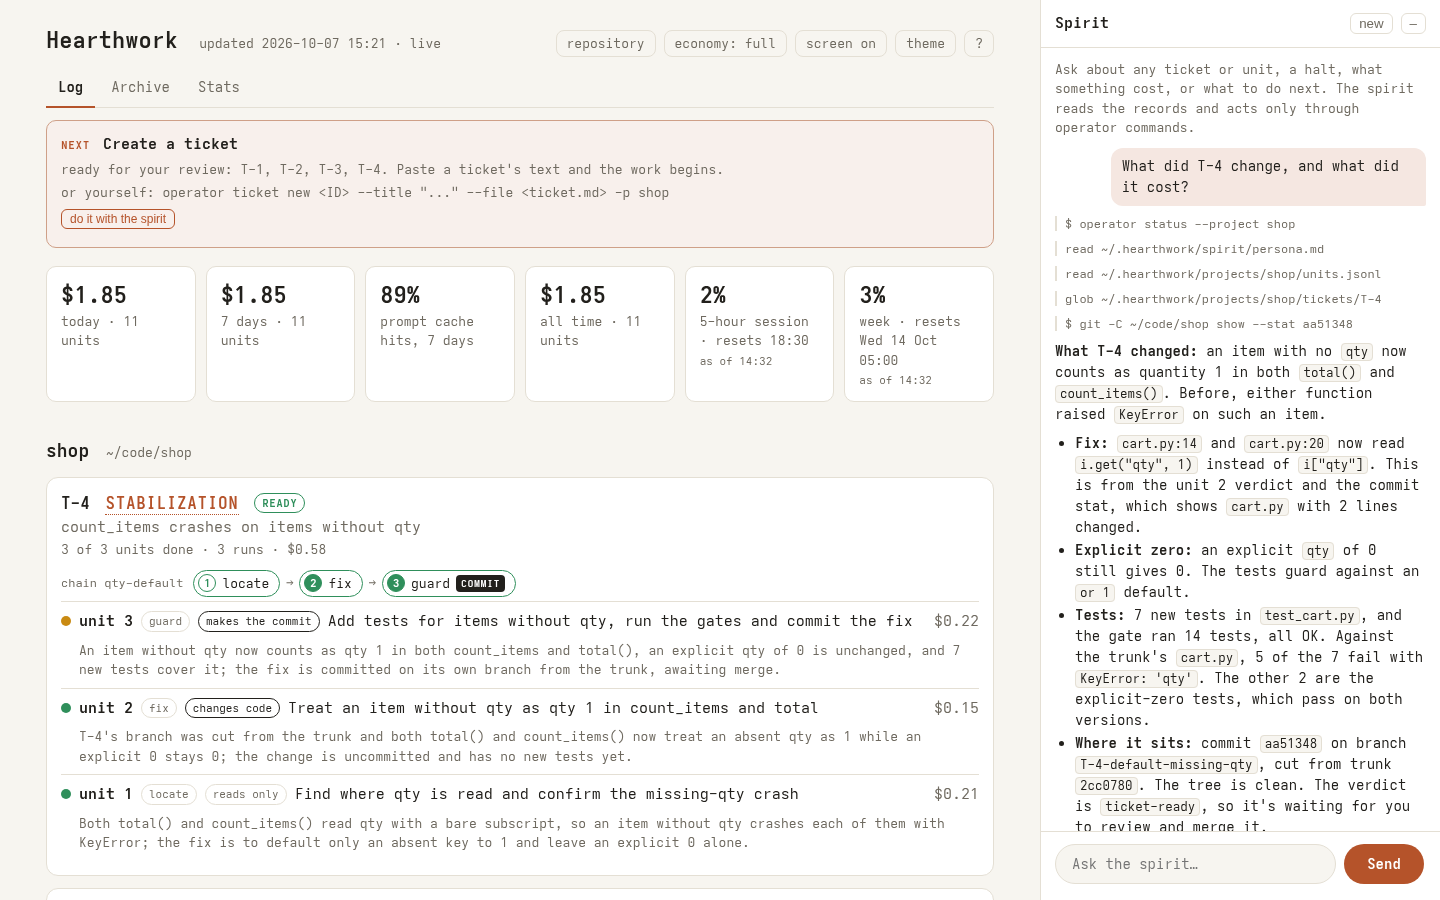
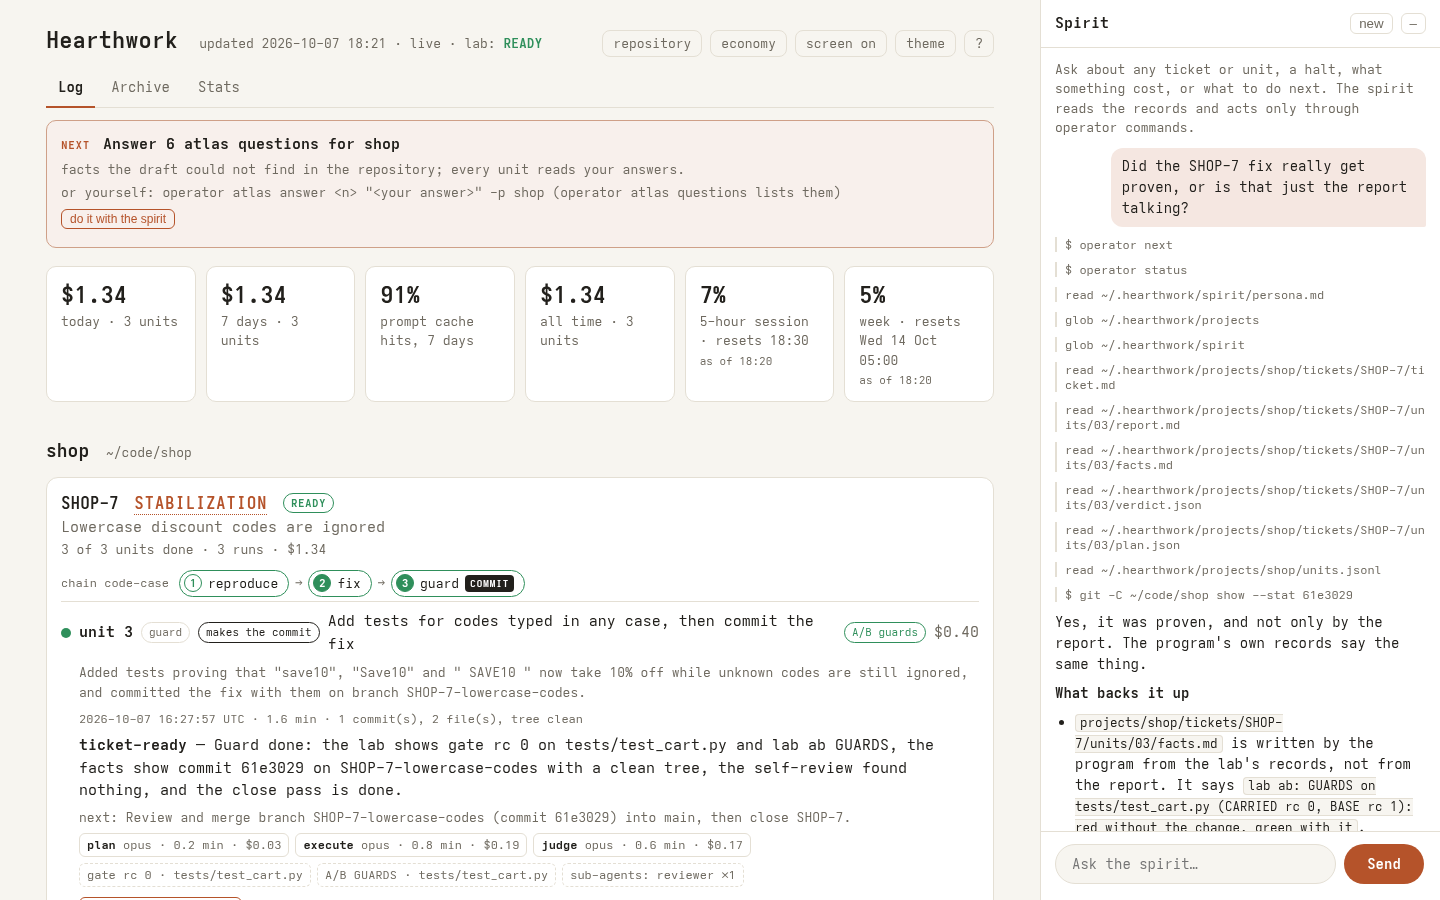
0.3.5: docs for the lab's server and MCP mode, a development section, a new example atlas, a current screenshot

diff --git a/src/hearthwork/__init__.py b/src/hearthwork/__init__.py
@@ -1,3 +1,3 @@
 """hearthwork — a plan -> execute -> judge loop for Claude Code."""
 
-__version__ = "0.3.4"
+__version__ = "0.3.5"

diff --git a/examples/atlas-hearthwork.md b/examples/atlas-hearthwork.md
@@ -1,59 +1,72 @@
-<!-- An example: the atlas `operator atlas` drafted of this very repository, in one read-only
-     Sonnet session costing $0.12, shown as drafted and not edited. A real one is then reviewed,
-     its questions answered, and kept current by the operator. -->
+<!-- An example: the atlas `operator atlas` drafted of this very repository (0.3.4), in one read-only
+     Sonnet session costing $0.10, shown as drafted and not edited. A real one is then reviewed, its
+     questions answered, its "The lab" lines taken with `operator lab config --from-atlas`, and kept
+     current by the operator. -->
 
 # Atlas
 
 ## What this is
-hearthwork is a plan → execute → judge loop for Claude Code. An "operator" session plans and judges, a fenced "executor" session does the work in a git checkout, and a "spirit" chat session sits beside them. It is pure-stdlib Python (3.11+, no dependencies) and ships a CLI named `operator`, a stdio MCP mode, and a local web UI that shows the work log. [README.md] [pyproject.toml:`requires-python`, `dependencies = []`, `[project.scripts]`]
+hearthwork is a plan → execute → judge loop for Claude Code. An "operator" plans units of work, a fenced "executor" does them in a checkout, and the operator judges the report against git facts. It also has a work-log web page, a chat "spirit", an MCP mode and a "lab" that runs tests and A/B proofs [README.md]. It is pure Python ≥3.10 with no runtime dependencies except `tomli` on <3.11, and its tests use `unittest` [pyproject.toml:11,20] [README.md].
 
 ## How to run things
-- Install: `pipx install git+https://github.com/alexandr352/hearthwork` or `pip install --user git+https://github.com/alexandr352/hearthwork`, then `operator doctor` [README.md]. A local editable install is not documented: `unknown`. A `.venv/` exists but is gitignored [ls -a, .gitignore].
-- Build: no build step. setuptools backend; the doctrine `.md` files are packaged as package-data [pyproject.toml].
-- Run one test file: `python -m unittest tests/test_fence.py` is `unknown`; no test command appears in any file I read. The tests are `unittest.TestCase` classes with `unittest.main()` at the bottom [tests/test_contract.py:2,28,80]. `python tests/test_contract.py` should therefore work, but I did not run it. Some tests insert `src` into `sys.path` themselves [tests/test_loop.py:12], and `test_fence.py` runs `src/hearthwork/fence.py` as a subprocess [tests/test_fence.py:9,15].
-- Run tests matching a name: `unknown`. With unittest the form would be `python tests/test_fence.py ExecutorFence.test_quoted_paths_do_not_hide`, but nothing in the repository states it. No pytest config exists [pyproject.toml].
-- Lint / format / typecheck: none configured. pyproject has no `[tool.*]` section besides setuptools, and there is no CI directory [pyproject.toml; ls -a, `.github` absent].
-- Must be running first: nothing for the tests. They use a throwaway `HEARTHWORK_HOME`, a temp git repo and `tests/fake_claude.py` in place of the real `claude` CLI [tests/test_loop.py:15-30, tests/fake_claude.py:1]. Real use needs git and a logged-in `claude` CLI [README.md "Install"].
+- Install: `python3 -m venv .venv && .venv/bin/pip install -e .` [README.md "Development"]
+- Build: unknown. It is a setuptools package with no build step for tests [pyproject.toml:1-3]. Doctrine `.md` files are shipped as package data [pyproject.toml:31-32].
+- Run one test file: `.venv/bin/python -m unittest tests/test_lab.py` [README.md]
+- Run tests matching a name: `.venv/bin/python -m unittest -k <pattern> tests/test_fence.py`. `-k` is listed in `python3 -m unittest --help`; the README does not show it.
+- Lint / format / typecheck: unknown. No linter, formatter or type-checker config exists [ls -a]. Some files carry `# noqa: E402` [tests/test_lab.py:16], so flake8 or ruff may be used informally. Ask the person.
+- Anything that must be running first: nothing. The tests use a stand-in for the Claude CLI, `tests/fake_claude.py`, and spend nothing [README.md]. The real tool needs `git` and a logged-in `claude` CLI [README.md "Install"]. The whole suite takes about a minute [README.md].
 
 ## Where things are
-- `src/hearthwork/`: the package [git ls-files]
-- `src/hearthwork/doctrine/`: markdown prompts per role, shipped as package-data: `executor/` (EXECUTOR.md, ATLAS-BUILD.md), `operator/` (CLAUDE.md, seeds, skill-* files), `spirit/` [git ls-files]
-- `tests/`: unittest tests and `fake_claude.py`, a stand-in for the Claude CLI [git ls-files]
-- Runtime data is not in the repo. It lives in `~/.hearthwork/` or `$HEARTHWORK_HOME` and holds `config.toml`, `projects/<name>/…` and the spirit's files [README.md "The home"; src/hearthwork/home.py:77].
+- `src/hearthwork/`: the package. The entry point is `operator = hearthwork.cli:main` [pyproject.toml:22-23] [ls src/].
+- `docs/`: commands.md, how-it-works.md, safety.md, mcp.md and images [git ls-files].
+- `examples/atlas-hearthwork.md`: an atlas previously drafted of this repo [README.md].
+- `tests/`: one `test_<module>.py` per module, plus `fake_claude.py` [git ls-files].
+- `CHANGELOG.md`: per-version notes. Versions marked "upgrade" change the doctrine [CHANGELOG.md:5-6].
 
-Where changes land:
-- `cli.py` (430 lines): argparse subcommands such as init, project, ticket, run, rule, status, doctor, atlas, ui, chat, mcp [src/hearthwork/cli.py].
-- `loop.py` (420 lines): the plan/execute/judge loop, retries and recovery. It builds the fence policy passed in `HEARTHWORK_FENCE_POLICY` [src/hearthwork/loop.py:86].
-- `fence.py` (404 lines): the PreToolUse hook, default-deny, with modes executor, read-only, operator and spirit. It is run as a standalone script [README.md "The fence"; tests/test_fence.py].
-- `contract.py`: checks that plans and verdicts have the required shape [tests/test_contract.py].
-- `home.py`, `records.py`: home and project layout, and the Ticket and unit records. `gitinfo.py` reads the git facts the judge sees.
-- `claude.py`: invokes the `claude` CLI. `mcp.py`: MCP stdio mode. `server.py` and `worklog.py`: the web UI and `worklog.html`. `atlas.py`: atlas drafting. `awake.py`: the sleep guard.
-- `doctrine/*.md`: edit these to change what each session is told.
+Where most changes land:
+- `src/hearthwork/cli.py` (802 lines): the argparse command surface [wc -l].
+- `src/hearthwork/loop.py` (600 lines): the plan/execute/judge loop [wc -l].
+- `src/hearthwork/lab.py` (1025 lines): `gate`, `ab`, `up`/`down`, `config`, restore [wc -l] [CHANGELOG.md].
+- `src/hearthwork/fence.py` (491 lines): the executor's permission hook, run as a script with the policy passed via `HEARTHWORK_FENCE_POLICY` [tests/test_fence.py:9-17].
+- `src/hearthwork/server.py` and `worklog.py`: the live page and work log [ls src/].
+- `src/hearthwork/doctrine/`: the markdown prompts that get installed: `executor/`, `operator/`, `spirit/`, `agents/`, `skills/` [git ls-files].
+- `contract.py`, `atlas.py`, `home.py`, `tickets.py`, `records.py`, `gitinfo.py`, `mcp.py`: the answer contracts, atlas handling, home directory and projects, tickets, records, git facts and MCP mode [ls src/].
 
 ## Conventions
-- Module docstring at the top of each file, short comments, no third-party dependencies [src/hearthwork/cli.py:1; pyproject.toml].
-- Tests are `unittest` classes in `tests/test_<module>.py`. Tests that need the loop build a temp home, repo and ticket and set the `HEARTHWORK_HOME`, `HEARTHWORK_NO_AWAKE` and `FAKE_STATE` env vars [tests/test_loop.py:15-30].
-- CLI errors go through `fail(msg)`, which prints `operator: <msg>` to stderr and returns exit code 2 [src/hearthwork/cli.py:19-21].
-- Files in the home are written atomically with `home.write_atomic` [src/hearthwork/cli.py:90].
-- Ticket IDs match `home.TICKET_ID`: letters, digits, `.`, `_` or `-` [src/hearthwork/cli.py:75-76].
-- Commits carry the person's own git identity, with no co-author trailer unless `co_author = true` is set in `project.toml` [git log f2a06c0]. Commit subjects are plain descriptive sentences with no prefix [git log].
-- Executor work goes on a ticket branch that the executor never pushes. The atlas-branch form is `unknown` (see questions). The only example seen is `T-1-work` in a fence test [tests/test_fence.py:25].
+- Tests use stdlib `unittest` classes. Shared fixtures are imported across test files, e.g. `from test_loop import Fixture` [tests/test_lab.py:16]. Test files insert `src` into `sys.path` [tests/test_lab.py:13-14].
+- Tests isolate state with a temp dir and `HEARTHWORK_HOME`, and set `HEARTHWORK_NO_AWAKE=1` [tests/test_lab.py:32-33]. They build throwaway git repos with `git init -b main` [tests/test_lab.py:36].
+- Tests drive the CLI as a subprocess: `python -m hearthwork lab -p shop ...` [tests/test_lab.py:56].
+- The code style is plain stdlib Python with module-level `from . import ...` [src/hearthwork/cli.py:11-12]. Formatting config is unknown.
+- Commits are plain subjects that start with the version, e.g. "0.3.4: lab up finds the server's address itself..." [git log]. Docs commits start with "Docs:" [git log]. Every release gets a new version number in `pyproject.toml`, and a `CHANGELOG.md` entry [CHANGELOG.md:23-24].
+- The tool's own ticket branches look like `T-1-work` [tests/test_fence.py:25]. Whether this repo's own work uses ticket branches is unknown. The trunk is `main` [git status].
+- Nothing is pushed by the tool; the person reviews and pushes [README.md].
+
+## The lab
+- lab test: `.venv/bin/python -m unittest {files}` [README.md]
+- lab lint: unknown
+- lab build: unknown
+- lab up: unknown
+- lab health: unknown
+- lab scratch: `tests/_scratch` [tests/ holds the tests, and the README runs them by path]
+- lab ab: worktree
+
+Writing a throwaway probe: use `unittest.TestCase`. For code that needs a project, copy the `LabFixture.setUp` setup from `tests/test_lab.py:28-46`. It makes a temp `HEARTHWORK_HOME`, a temp git repo, `home.init_home()` and `home.add_project(...)`. For fence behaviour, copy the `ask()` helper from `tests/test_fence.py:13-17`. Note that a scratch file under `tests/_scratch/` needs the same `sys.path.insert(0, ".../src")` as `tests/test_lab.py:13-14`. Run it by path with `-m unittest`, since the README shows only path-based runs. `unittest discover -s tests` would not enter a folder without `__init__.py`, so name the file explicitly.
 
 ## Traps
-- `fence.py` is a security-relevant, default-deny guard that tests execute as a subprocess. With no `HEARTHWORK_FENCE_POLICY` it denies everything [tests/test_fence.py:150 `NoPolicyDenies`; src/hearthwork/fence.py:361]. Its own README says it is a guard rail, not a sandbox [README.md].
-- `test_fence.py` uses the real `Path.home()` and asserts denial of paths like `~/.ssh` [tests/test_fence.py:10,36-39]. It reads paths but does not modify them.
-- Setting `HEARTHWORK_HOME` is what keeps tests from touching `~/.hearthwork`. New tests must set it [tests/test_loop.py:19].
-- The `doctrine/` markdown is prompt text that code reads at runtime. `operator upgrade` copies it into each project's operator directory (`home.refresh_doctrine`), so edits here don't reach existing projects until then [src/hearthwork/cli.py:64-68].
-- `HEARTHWORK_NO_AWAKE` disables the sleep guard (`caffeinate` or `systemd-inhibit`) [src/hearthwork/awake.py:26].
-- `__pycache__` holds `cpython-314` bytecode, so the local Python is 3.14. It is gitignored [ls; .gitignore].
-- The README says the fence is also what keeps executors from pushing. The git repo has a single branch, `main`, and no CI [git branch -a].
+- `HEARTHWORK_HOME` and `HEARTHWORK_NO_AWAKE` must be set in any test that touches the home directory. Without them a test could touch the real `~/.hearthwork` or keep the machine awake [tests/test_lab.py:32-33] [src/hearthwork/awake.py]. The default home location is unknown.
+- `fence.py` is invoked as a standalone script by Claude Code hooks, so it needs to work without package imports [tests/test_fence.py:15]. Check that before adding imports to it.
+- The doctrine `.md` files are package data that the installed tool reads. Edits there change the behaviour of every later session, and `operator upgrade` is needed after changes [pyproject.toml:31-32] [CHANGELOG.md:5-6].
+- `HEARTHWORK_AB_OUT` is an environment variable used by the A/B path [grep src tests]. Its role is unknown, so read `lab.py` before touching the A/B.
+- `git stash`, `git restore` and `git checkout -- <file>` are refused by the fence for executors. Baselines come from `operator lab ab` [tests/test_fence.py:59] [CHANGELOG.md].
+- The full suite takes about a minute [README.md]. Use per-file runs.
+- No CI workflow exists in the repo [ls -a: no .github].
 
 ## Questions for the person
-1. What is the exact command to run one test file and one test by name (unittest or pytest)? The repository states neither.
-2. How should ticket branches be named (for example `T-12-short-title`), and is `main` the trunk?
-3. Do you want a linter, formatter or type checker used (ruff, mypy)? None is configured, so should a session add none?
-4. Is an editable install (`pip install -e .` in `.venv`) the expected dev setup?
-5. Which areas are off limits or need extra care, such as `fence.py` and the doctrine prompts?
-6. Is any test slow or flaky? `test_loop.py` and `test_mcp.py` drive subprocesses and may be.
-7. Should commits ever carry a co-author trailer, or is the default of none right for this repository?
-8. Does `operator upgrade` need to be run after changing a doctrine file, or does something else handle that?
+1. Is there a linter, formatter or type-checker you want run (ruff, flake8, mypy)? None is configured.
+2. Should work on this repo use ticket branches such as `T-<n>-...`, or short-lived branches off `main`? Which form do you prefer?
+3. Do you want a `CHANGELOG.md` entry and a version bump in `pyproject.toml` on every change, or only for releases?
+4. Which test files are slow or flaky? `test_lab.py`, `test_running.py` and `test_loop.py` look heaviest, but I did not run them.
+5. Are any areas off limits, such as `fence.py` or the `doctrine/` prompts?
+6. Is `.venv/bin/python` the right interpreter for the lab, or should it use another path?
+7. What is the default `HEARTHWORK_HOME` location, and should tests ever run against it?
+8. May `tests/_scratch` be used as the throwaway probe folder?

diff --git a/README.md b/README.md
@@ -3,7 +3,7 @@
 A plan → execute → judge loop for [Claude Code](https://claude.com/claude-code), with a
 home, a work log, and a spirit you can talk to.
 
-![The work log with the spirit's chat: a ticket's chain of units, what each one did and cost, your limits, and the spirit answering from the records](docs/screenshot.png)
+![The work log with the spirit's chat: a STABILIZATION ticket's chain (reproduce, fix, guard), the lab's state in the header, the guard proven by the lab's A/B, and the spirit answering from the records](docs/screenshot.png)
 
 You give it a ticket. An **operator** plans the work in small units and writes a prompt
 for each. An **executor** does the unit in your checkout, behind a fence. The operator

diff --git a/CHANGELOG.md b/CHANGELOG.md
@@ -4,6 +4,10 @@ To update: `~/.hearthwork-venv/bin/pip install --upgrade git+https://github.com/
 then `operator upgrade`, then restart `operator ui`. Versions marked **upgrade** change the doctrine
 the operator or the spirit reads, so `operator upgrade` matters for them.
 
+## 0.3.5
+- Docs: the lab's server (only the start command is needed), the lab in MCP mode, a development section,
+  a new example atlas with its "The lab" section, a current screenshot.
+
 ## 0.3.4 (upgrade)
 - `operator lab up` finds the server's address itself: from what it prints as it starts
   (`Local: http://localhost:5173/`, `listening on port 3355`), else from the TCP port it opens. It is up only
